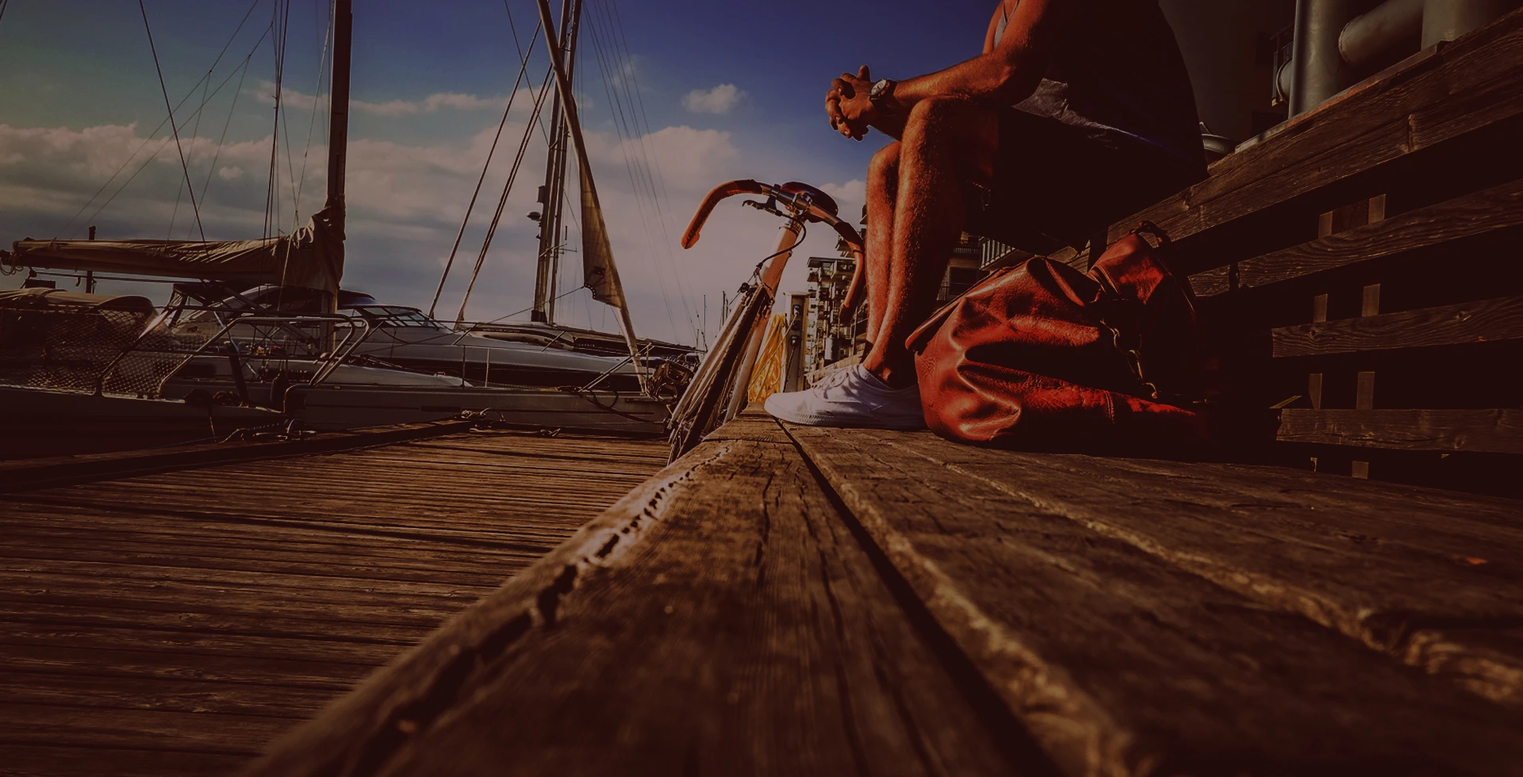
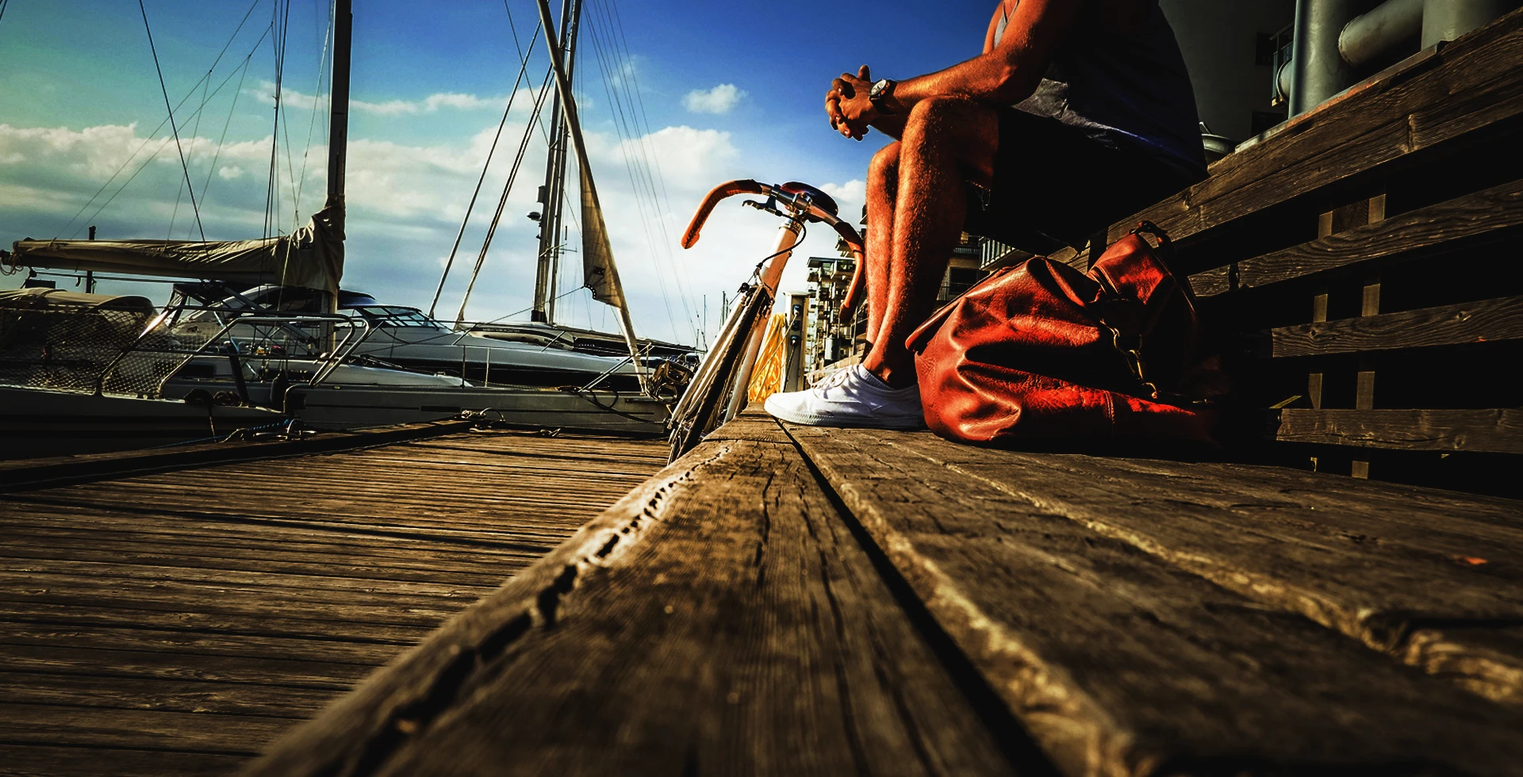
Add files via upload

diff --git a/index.html b/index.html
@@ -13,18 +13,15 @@
 <body>
   <svg xmlns="http://www.w3.org/2000/svg" xmlns:xlink="http://www.w3.org/1999/xlink" class="visually-hidden">
     <symbol id="Basket_icon">
-      <path fill-rule="evenodd"
-        d="M25.445,4.957 C25.835,5.212 26.072,5.668 26.006,6.159 L24.502,15.477 C24.410,16.158 23.781,16.637 23.097,16.545 L22.997,16.531 L7.747,16.531 L8.131,19.062 L21.656,19.062 C22.312,19.062 22.844,19.594 22.844,20.250 L22.844,20.375 C22.844,21.031 22.312,21.562 21.656,21.562 L7.184,21.562 L7.135,21.570 C6.454,21.680 5.813,21.218 5.703,20.539 L3.144,3.682 C3.086,3.324 3.194,2.983 3.402,2.719 L1.315,2.719 C0.589,2.719 -0.000,2.130 -0.000,1.404 L-0.000,1.315 C-0.000,0.588 0.589,-0.000 1.315,-0.000 L4.435,-0.000 C5.161,-0.000 5.750,0.588 5.750,1.315 L5.750,1.404 C5.750,1.835 5.538,2.210 5.217,2.447 C5.285,2.495 5.334,2.564 5.392,2.625 L24.715,2.625 C25.408,2.625 25.969,3.186 25.969,3.878 L25.969,3.965 C25.969,4.379 25.755,4.729 25.445,4.957 ZM21.994,13.781 L22.559,10.281 L17.500,10.281 L17.500,13.781 L21.994,13.781 ZM16.500,13.781 L16.500,10.281 L12.219,10.281 L12.219,13.781 L16.500,13.781 ZM7.329,13.781 L11.219,13.781 L11.219,10.281 L6.798,10.281 L7.329,13.781 ZM6.029,5.219 L6.644,9.268 C6.674,9.262 6.701,9.250 6.732,9.250 L11.219,9.250 L11.219,5.219 L6.029,5.219 ZM12.219,5.219 L12.219,9.250 L16.500,9.250 L16.500,5.219 L12.219,5.219 ZM17.500,5.219 L17.500,9.250 L22.725,9.250 L23.283,5.793 C23.313,5.571 23.414,5.385 23.540,5.219 L17.500,5.219 ZM9.062,23.187 C10.132,23.187 11.000,23.817 11.000,24.594 C11.000,25.370 10.132,26.000 9.062,26.000 C7.992,26.000 7.125,25.370 7.125,24.594 C7.125,23.817 7.992,23.187 9.062,23.187 ZM21.031,23.187 C22.101,23.187 22.969,23.817 22.969,24.594 C22.969,25.370 22.101,26.000 21.031,26.000 C19.961,26.000 19.094,25.370 19.094,24.594 C19.094,23.817 19.961,23.187 21.031,23.187 Z">
+      <path fill-rule="evenodd" d="M25.445,4.957 C25.835,5.212 26.072,5.668 26.006,6.159 L24.502,15.477 C24.410,16.158 23.781,16.637 23.097,16.545 L22.997,16.531 L7.747,16.531 L8.131,19.062 L21.656,19.062 C22.312,19.062 22.844,19.594 22.844,20.250 L22.844,20.375 C22.844,21.031 22.312,21.562 21.656,21.562 L7.184,21.562 L7.135,21.570 C6.454,21.680 5.813,21.218 5.703,20.539 L3.144,3.682 C3.086,3.324 3.194,2.983 3.402,2.719 L1.315,2.719 C0.589,2.719 -0.000,2.130 -0.000,1.404 L-0.000,1.315 C-0.000,0.588 0.589,-0.000 1.315,-0.000 L4.435,-0.000 C5.161,-0.000 5.750,0.588 5.750,1.315 L5.750,1.404 C5.750,1.835 5.538,2.210 5.217,2.447 C5.285,2.495 5.334,2.564 5.392,2.625 L24.715,2.625 C25.408,2.625 25.969,3.186 25.969,3.878 L25.969,3.965 C25.969,4.379 25.755,4.729 25.445,4.957 ZM21.994,13.781 L22.559,10.281 L17.500,10.281 L17.500,13.781 L21.994,13.781 ZM16.500,13.781 L16.500,10.281 L12.219,10.281 L12.219,13.781 L16.500,13.781 ZM7.329,13.781 L11.219,13.781 L11.219,10.281 L6.798,10.281 L7.329,13.781 ZM6.029,5.219 L6.644,9.268 C6.674,9.262 6.701,9.250 6.732,9.250 L11.219,9.250 L11.219,5.219 L6.029,5.219 ZM12.219,5.219 L12.219,9.250 L16.500,9.250 L16.500,5.219 L12.219,5.219 ZM17.500,5.219 L17.500,9.250 L22.725,9.250 L23.283,5.793 C23.313,5.571 23.414,5.385 23.540,5.219 L17.500,5.219 ZM9.062,23.187 C10.132,23.187 11.000,23.817 11.000,24.594 C11.000,25.370 10.132,26.000 9.062,26.000 C7.992,26.000 7.125,25.370 7.125,24.594 C7.125,23.817 7.992,23.187 9.062,23.187 ZM21.031,23.187 C22.101,23.187 22.969,23.817 22.969,24.594 C22.969,25.370 22.101,26.000 21.031,26.000 C19.961,26.000 19.094,25.370 19.094,24.594 C19.094,23.817 19.961,23.187 21.031,23.187 Z">
       </path>
     </symbol>
     <symbol id="buttonLeft" viewbox="0 0 60 60">
-      <path fill-rule="evenodd" stroke-width="2px" stroke-linecap="butt" stroke-linejoin="miter" fill="none"
-        d="M49.000,59.000 L11.000,59.000 C5.477,59.000 1.000,54.523 1.000,49.000 L1.000,11.000 C1.000,5.477 5.477,1.000 11.000,1.000 L49.000,1.000 C54.523,1.000 59.000,5.477 59.000,11.000 L59.000,49.000 C59.000,54.523 54.523,59.000 49.000,59.000 ZM36.981,23.943 C38.298,22.580 38.298,20.372 36.981,19.010 C35.663,17.648 33.528,17.648 32.210,19.010 L23.970,27.530 C22.653,28.892 22.653,31.101 23.970,32.463 L32.210,40.983 C33.528,42.345 35.663,42.345 36.981,40.983 C38.298,39.621 38.298,37.413 36.981,36.050 L31.126,29.996 L36.981,23.943 Z">
+      <path fill-rule="evenodd" stroke-width="2px" stroke-linecap="butt" stroke-linejoin="miter" fill="none" d="M49.000,59.000 L11.000,59.000 C5.477,59.000 1.000,54.523 1.000,49.000 L1.000,11.000 C1.000,5.477 5.477,1.000 11.000,1.000 L49.000,1.000 C54.523,1.000 59.000,5.477 59.000,11.000 L59.000,49.000 C59.000,54.523 54.523,59.000 49.000,59.000 ZM36.981,23.943 C38.298,22.580 38.298,20.372 36.981,19.010 C35.663,17.648 33.528,17.648 32.210,19.010 L23.970,27.530 C22.653,28.892 22.653,31.101 23.970,32.463 L32.210,40.983 C33.528,42.345 35.663,42.345 36.981,40.983 C38.298,39.621 38.298,37.413 36.981,36.050 L31.126,29.996 L36.981,23.943 Z">
       </path>
     </symbol>
     <symbol id="fightButtonLink" viewbox="0 0 60 60">
-      <path fill-rule="evenodd" stroke-width="3px" stroke-linecap="butt" stroke-linejoin="miter" fill="none"
-        d="M49.000,59.000 L11.000,59.000 C5.477,59.000 1.000,54.523 1.000,49.000 L1.000,11.000 C1.000,5.477 5.477,1.000 11.000,1.000 L49.000,1.000 C54.523,1.000 59.000,5.477 59.000,11.000 L59.000,49.000 C59.000,54.523 54.523,59.000 49.000,59.000 ZM36.030,27.530 L27.790,19.010 C26.472,17.648 24.337,17.648 23.019,19.010 C21.702,20.372 21.702,22.580 23.019,23.943 L28.874,29.996 L23.019,36.050 C21.702,37.413 21.702,39.621 23.019,40.983 C24.337,42.345 26.472,42.345 27.790,40.983 L36.030,32.463 C37.347,31.101 37.347,28.892 36.030,27.530 Z">
+      <path fill-rule="evenodd" stroke-width="3px" stroke-linecap="butt" stroke-linejoin="miter" fill="none" d="M49.000,59.000 L11.000,59.000 C5.477,59.000 1.000,54.523 1.000,49.000 L1.000,11.000 C1.000,5.477 5.477,1.000 11.000,1.000 L49.000,1.000 C54.523,1.000 59.000,5.477 59.000,11.000 L59.000,49.000 C59.000,54.523 54.523,59.000 49.000,59.000 ZM36.030,27.530 L27.790,19.010 C26.472,17.648 24.337,17.648 23.019,19.010 C21.702,20.372 21.702,22.580 23.019,23.943 L28.874,29.996 L23.019,36.050 C21.702,37.413 21.702,39.621 23.019,40.983 C24.337,42.345 26.472,42.345 27.790,40.983 L36.030,32.463 C37.347,31.101 37.347,28.892 36.030,27.530 Z">
       </path>
     </symbol>
     <symbol id="iconfinder_ic_close_48px_352270" viewbox="0 0 48 48">
@@ -32,13 +29,11 @@
       <path d="M0 0h48v48h-48z" fill="none"></path>
     </symbol>
     <symbol id="iconfinder_menu-alt_134216" viewbox="0 0 32 32">
-      <path
-        d="M4,10h24c1.104,0,2-0.896,2-2s-0.896-2-2-2H4C2.896,6,2,6.896,2,8S2.896,10,4,10z M28,14H4c-1.104,0-2,0.896-2,2  s0.896,2,2,2h24c1.104,0,2-0.896,2-2S29.104,14,28,14z M28,22H4c-1.104,0-2,0.896-2,2s0.896,2,2,2h24c1.104,0,2-0.896,2-2  S29.104,22,28,22z">
+      <path d="M4,10h24c1.104,0,2-0.896,2-2s-0.896-2-2-2H4C2.896,6,2,6.896,2,8S2.896,10,4,10z M28,14H4c-1.104,0-2,0.896-2,2  s0.896,2,2,2h24c1.104,0,2-0.896,2-2S29.104,14,28,14z M28,22H4c-1.104,0-2,0.896-2,2s0.896,2,2,2h24c1.104,0,2-0.896,2-2  S29.104,22,28,22z">
       </path>
     </symbol>
     <symbol id="logo">
-      <path fill-rule="evenodd" fill="rgb(255, 255, 255)"
-        d="M150.000,32.000 L10.000,32.000 C4.477,32.000 -0.000,27.523 -0.000,22.000 L-0.000,10.000 C-0.000,4.477 4.477,-0.000 10.000,-0.000 L150.000,-0.000 C155.523,-0.000 160.000,4.477 160.000,10.000 L160.000,22.000 C160.000,27.523 155.523,32.000 150.000,32.000 ZM15.016,8.800 L8.296,8.800 L8.296,9.771 L11.070,9.771 L11.070,24.370 L12.197,24.370 L12.197,9.771 L15.016,9.771 L15.016,8.800 ZM27.330,8.800 L26.225,8.800 L26.225,15.725 L22.120,15.725 L22.120,8.800 L21.038,8.800 L21.038,24.370 L22.120,24.370 L22.120,16.673 L26.225,16.673 L26.225,24.370 L27.330,24.370 L27.330,8.800 ZM40.117,8.800 L34.479,8.800 L34.479,24.370 L40.094,24.370 L40.094,23.400 L35.562,23.400 L35.562,16.717 L39.305,16.717 L39.305,15.769 L35.562,15.769 L35.562,9.771 L40.117,9.771 L40.117,8.800 ZM56.896,18.813 C56.896,17.997 56.873,17.115 56.152,16.519 C55.565,16.034 54.686,15.946 54.460,15.924 C54.799,15.857 55.859,15.725 56.219,14.622 C56.355,14.225 56.332,13.674 56.332,13.564 L56.332,11.248 C56.332,10.631 56.242,9.969 55.791,9.462 C55.114,8.712 53.987,8.800 53.739,8.800 L50.717,8.800 L50.717,24.370 L53.897,24.370 C54.212,24.370 55.272,24.414 56.107,23.708 C56.806,23.091 56.896,22.319 56.896,21.481 L56.896,18.813 ZM64.812,8.800 L63.662,8.800 L63.662,24.370 L64.812,24.370 L64.812,8.800 ZM78.253,8.800 L77.013,8.800 L73.044,16.431 L73.044,8.800 L71.939,8.800 L71.939,24.370 L73.021,24.370 L73.021,18.460 L74.194,16.298 L77.103,24.370 L78.298,24.370 L74.870,14.997 L78.253,8.800 ZM90.093,8.800 L84.455,8.800 L84.455,24.370 L90.070,24.370 L90.070,23.400 L85.538,23.400 L85.538,16.717 L89.281,16.717 L89.281,15.769 L85.538,15.769 L85.538,9.771 L90.093,9.771 L90.093,8.800 ZM107.098,9.771 C107.549,9.506 108.067,9.506 108.225,9.506 C109.601,9.506 109.939,10.344 110.029,10.873 C110.097,11.182 110.097,11.358 110.097,11.910 L110.097,13.299 L111.179,13.299 L111.179,12.175 C111.179,11.050 111.179,9.727 110.074,9.021 C109.353,8.580 108.451,8.580 108.203,8.580 C105.970,8.580 105.451,9.969 105.294,10.851 C105.203,11.292 105.203,11.932 105.203,12.020 C105.203,13.520 105.722,14.402 106.105,14.909 C106.444,15.372 107.007,15.990 107.932,16.872 C108.090,17.004 109.150,17.997 109.736,18.879 C110.029,19.342 110.300,19.893 110.300,21.106 C110.300,22.385 109.984,23.047 109.420,23.378 C108.947,23.664 108.451,23.664 108.270,23.664 C106.218,23.664 105.970,22.253 105.925,21.503 C105.902,21.172 105.925,20.864 105.925,20.533 L105.925,19.276 L104.820,19.276 L104.820,21.481 C104.820,21.944 104.843,22.297 105.000,22.738 C105.181,23.201 105.429,23.554 105.790,23.863 C106.015,24.061 106.196,24.172 106.308,24.238 C106.805,24.502 107.526,24.613 108.135,24.613 C109.668,24.613 110.458,24.017 110.841,23.466 C111.157,23.003 111.405,22.231 111.405,20.930 C111.405,19.695 111.179,18.835 110.390,17.864 C109.894,17.247 109.330,16.717 108.766,16.166 C108.383,15.769 108.022,15.394 107.684,14.997 C106.714,13.917 106.308,13.321 106.308,11.844 C106.308,10.697 106.602,10.079 107.098,9.771 ZM124.463,8.800 L123.358,8.800 L123.358,15.725 L119.254,15.725 L119.254,8.800 L118.171,8.800 L118.171,24.370 L119.254,24.370 L119.254,16.673 L123.358,16.673 L123.358,24.370 L124.463,24.370 L124.463,8.800 ZM137.949,12.594 C137.949,11.381 137.949,10.035 136.822,9.197 C136.235,8.778 135.514,8.624 134.792,8.624 C133.439,8.602 132.199,9.197 131.748,10.498 C131.500,11.204 131.500,12.086 131.500,12.263 L131.500,21.040 C131.500,21.966 131.567,22.848 132.199,23.620 C132.988,24.547 134.364,24.569 134.679,24.569 C136.303,24.569 137.137,23.797 137.476,23.223 C137.882,22.584 137.949,21.922 137.949,21.194 L137.949,12.594 ZM151.233,12.263 C151.233,11.116 151.233,10.102 150.376,9.418 C149.564,8.756 148.481,8.800 147.512,8.800 L145.031,8.800 L145.031,24.370 L146.136,24.370 L146.136,17.269 L147.760,17.269 C148.459,17.269 149.789,17.225 150.601,16.276 C151.210,15.571 151.233,14.865 151.233,14.027 L151.233,12.263 ZM147.918,16.365 L146.114,16.365 L146.114,9.704 L147.805,9.704 C148.729,9.704 149.090,9.771 149.496,10.079 C150.128,10.543 150.150,11.292 150.150,12.682 L150.150,14.027 C150.150,14.159 150.240,15.218 149.632,15.813 C149.158,16.298 148.526,16.365 147.918,16.365 ZM134.747,23.598 C133.484,23.598 132.920,22.804 132.762,22.385 C132.627,21.988 132.582,21.503 132.582,20.621 L132.582,12.042 C132.582,11.777 132.537,10.543 133.507,9.925 C133.687,9.815 134.093,9.594 134.724,9.594 C135.243,9.594 135.626,9.749 135.784,9.837 C136.235,10.057 136.416,10.388 136.506,10.565 C136.822,11.160 136.889,11.888 136.889,13.189 L136.889,20.775 C136.889,21.679 136.844,22.628 135.987,23.223 C135.626,23.488 135.198,23.598 134.747,23.598 ZM53.716,23.422 L51.844,23.422 L51.844,16.453 L52.972,16.453 C54.032,16.453 55.227,16.585 55.656,17.732 C55.768,18.063 55.791,18.416 55.791,18.790 L55.791,20.996 C55.791,22.143 55.701,22.672 55.182,23.069 C54.866,23.289 54.505,23.422 53.716,23.422 ZM52.904,15.505 L51.822,15.505 L51.822,9.727 L53.220,9.727 C53.919,9.727 54.844,9.749 55.137,10.543 C55.204,10.719 55.250,11.006 55.250,11.447 L55.250,13.321 C55.250,13.696 55.340,14.975 53.987,15.372 C53.671,15.460 53.513,15.505 52.904,15.505 Z">
+      <path fill-rule="evenodd" fill="rgb(255, 255, 255)" d="M150.000,32.000 L10.000,32.000 C4.477,32.000 -0.000,27.523 -0.000,22.000 L-0.000,10.000 C-0.000,4.477 4.477,-0.000 10.000,-0.000 L150.000,-0.000 C155.523,-0.000 160.000,4.477 160.000,10.000 L160.000,22.000 C160.000,27.523 155.523,32.000 150.000,32.000 ZM15.016,8.800 L8.296,8.800 L8.296,9.771 L11.070,9.771 L11.070,24.370 L12.197,24.370 L12.197,9.771 L15.016,9.771 L15.016,8.800 ZM27.330,8.800 L26.225,8.800 L26.225,15.725 L22.120,15.725 L22.120,8.800 L21.038,8.800 L21.038,24.370 L22.120,24.370 L22.120,16.673 L26.225,16.673 L26.225,24.370 L27.330,24.370 L27.330,8.800 ZM40.117,8.800 L34.479,8.800 L34.479,24.370 L40.094,24.370 L40.094,23.400 L35.562,23.400 L35.562,16.717 L39.305,16.717 L39.305,15.769 L35.562,15.769 L35.562,9.771 L40.117,9.771 L40.117,8.800 ZM56.896,18.813 C56.896,17.997 56.873,17.115 56.152,16.519 C55.565,16.034 54.686,15.946 54.460,15.924 C54.799,15.857 55.859,15.725 56.219,14.622 C56.355,14.225 56.332,13.674 56.332,13.564 L56.332,11.248 C56.332,10.631 56.242,9.969 55.791,9.462 C55.114,8.712 53.987,8.800 53.739,8.800 L50.717,8.800 L50.717,24.370 L53.897,24.370 C54.212,24.370 55.272,24.414 56.107,23.708 C56.806,23.091 56.896,22.319 56.896,21.481 L56.896,18.813 ZM64.812,8.800 L63.662,8.800 L63.662,24.370 L64.812,24.370 L64.812,8.800 ZM78.253,8.800 L77.013,8.800 L73.044,16.431 L73.044,8.800 L71.939,8.800 L71.939,24.370 L73.021,24.370 L73.021,18.460 L74.194,16.298 L77.103,24.370 L78.298,24.370 L74.870,14.997 L78.253,8.800 ZM90.093,8.800 L84.455,8.800 L84.455,24.370 L90.070,24.370 L90.070,23.400 L85.538,23.400 L85.538,16.717 L89.281,16.717 L89.281,15.769 L85.538,15.769 L85.538,9.771 L90.093,9.771 L90.093,8.800 ZM107.098,9.771 C107.549,9.506 108.067,9.506 108.225,9.506 C109.601,9.506 109.939,10.344 110.029,10.873 C110.097,11.182 110.097,11.358 110.097,11.910 L110.097,13.299 L111.179,13.299 L111.179,12.175 C111.179,11.050 111.179,9.727 110.074,9.021 C109.353,8.580 108.451,8.580 108.203,8.580 C105.970,8.580 105.451,9.969 105.294,10.851 C105.203,11.292 105.203,11.932 105.203,12.020 C105.203,13.520 105.722,14.402 106.105,14.909 C106.444,15.372 107.007,15.990 107.932,16.872 C108.090,17.004 109.150,17.997 109.736,18.879 C110.029,19.342 110.300,19.893 110.300,21.106 C110.300,22.385 109.984,23.047 109.420,23.378 C108.947,23.664 108.451,23.664 108.270,23.664 C106.218,23.664 105.970,22.253 105.925,21.503 C105.902,21.172 105.925,20.864 105.925,20.533 L105.925,19.276 L104.820,19.276 L104.820,21.481 C104.820,21.944 104.843,22.297 105.000,22.738 C105.181,23.201 105.429,23.554 105.790,23.863 C106.015,24.061 106.196,24.172 106.308,24.238 C106.805,24.502 107.526,24.613 108.135,24.613 C109.668,24.613 110.458,24.017 110.841,23.466 C111.157,23.003 111.405,22.231 111.405,20.930 C111.405,19.695 111.179,18.835 110.390,17.864 C109.894,17.247 109.330,16.717 108.766,16.166 C108.383,15.769 108.022,15.394 107.684,14.997 C106.714,13.917 106.308,13.321 106.308,11.844 C106.308,10.697 106.602,10.079 107.098,9.771 ZM124.463,8.800 L123.358,8.800 L123.358,15.725 L119.254,15.725 L119.254,8.800 L118.171,8.800 L118.171,24.370 L119.254,24.370 L119.254,16.673 L123.358,16.673 L123.358,24.370 L124.463,24.370 L124.463,8.800 ZM137.949,12.594 C137.949,11.381 137.949,10.035 136.822,9.197 C136.235,8.778 135.514,8.624 134.792,8.624 C133.439,8.602 132.199,9.197 131.748,10.498 C131.500,11.204 131.500,12.086 131.500,12.263 L131.500,21.040 C131.500,21.966 131.567,22.848 132.199,23.620 C132.988,24.547 134.364,24.569 134.679,24.569 C136.303,24.569 137.137,23.797 137.476,23.223 C137.882,22.584 137.949,21.922 137.949,21.194 L137.949,12.594 ZM151.233,12.263 C151.233,11.116 151.233,10.102 150.376,9.418 C149.564,8.756 148.481,8.800 147.512,8.800 L145.031,8.800 L145.031,24.370 L146.136,24.370 L146.136,17.269 L147.760,17.269 C148.459,17.269 149.789,17.225 150.601,16.276 C151.210,15.571 151.233,14.865 151.233,14.027 L151.233,12.263 ZM147.918,16.365 L146.114,16.365 L146.114,9.704 L147.805,9.704 C148.729,9.704 149.090,9.771 149.496,10.079 C150.128,10.543 150.150,11.292 150.150,12.682 L150.150,14.027 C150.150,14.159 150.240,15.218 149.632,15.813 C149.158,16.298 148.526,16.365 147.918,16.365 ZM134.747,23.598 C133.484,23.598 132.920,22.804 132.762,22.385 C132.627,21.988 132.582,21.503 132.582,20.621 L132.582,12.042 C132.582,11.777 132.537,10.543 133.507,9.925 C133.687,9.815 134.093,9.594 134.724,9.594 C135.243,9.594 135.626,9.749 135.784,9.837 C136.235,10.057 136.416,10.388 136.506,10.565 C136.822,11.160 136.889,11.888 136.889,13.189 L136.889,20.775 C136.889,21.679 136.844,22.628 135.987,23.223 C135.626,23.488 135.198,23.598 134.747,23.598 ZM53.716,23.422 L51.844,23.422 L51.844,16.453 L52.972,16.453 C54.032,16.453 55.227,16.585 55.656,17.732 C55.768,18.063 55.791,18.416 55.791,18.790 L55.791,20.996 C55.791,22.143 55.701,22.672 55.182,23.069 C54.866,23.289 54.505,23.422 53.716,23.422 ZM52.904,15.505 L51.822,15.505 L51.822,9.727 L53.220,9.727 C53.919,9.727 54.844,9.749 55.137,10.543 C55.204,10.719 55.250,11.006 55.250,11.447 L55.250,13.321 C55.250,13.696 55.340,14.975 53.987,15.372 C53.671,15.460 53.513,15.505 52.904,15.505 Z">
       </path>
     </symbol>
   </svg>

diff --git a/css/style.min.css b/css/style.min.css
@@ -1,2 +1,2 @@
-.header{width:100%;height:500px;padding-top:27px;padding-left:20px;padding-right:20px;-webkit-box-sizing:border-box;box-sizing:border-box;background-image:url(../img/PhotoFilter.jpg);background-size:cover;background-position:center}.header__menu{display:-webkit-box;display:-ms-flexbox;display:flex;-webkit-box-pack:justify;-ms-flex-pack:justify;justify-content:space-between;-ms-flex-wrap:wrap;flex-wrap:wrap;height:37px}.header__logo-img{width:164px;height:34px}.header__logo{-webkit-box-ordinal-group:2;-ms-flex-order:1;order:1;-ms-flex-preferred-size:50%;flex-basis:50%}.header__button-container{-ms-flex-preferred-size:100%;flex-basis:100%;text-align:right;-webkit-box-ordinal-group:4;-ms-flex-order:3;order:3}.header__navigation-list{list-style:none;margin:0;padding:0;display:-webkit-box;display:-ms-flexbox;display:flex;-webkit-box-orient:vertical;-webkit-box-direction:normal;-ms-flex-direction:column;flex-direction:column;-webkit-box-align:end;-ms-flex-align:end;align-items:flex-end;position:relative;top:5px;right:22px}.header__navigation-list--opened{visibility:visible;z-index:10}.header__navigation-list:last-child li{margin-top:10px}.header__navigation-list--closed{visibility:hidden}.header__navigation-item{position:relative}.header__navigation-item:active .header__navigation-sublist,.header__navigation-item:focus .header__navigation-sublist,.header__navigation-item:hover .header__navigation-sublist{display:block}.header__button{-webkit-box-ordinal-group:3;-ms-flex-order:2;order:2;height:40px;background-color:transparent;border:0;cursor:pointer}.header__button:focus{background-color:#fcff19;border-radius:10px;-webkit-transition:background .5s;transition:background .5s}.header__button:focus svg{fill:#000}.header__button:hover{background-color:#fcff19;border-radius:10px;-webkit-transition:background .5s;transition:background .5s}.header__button:hover .header__button-svg,.header__navigation-link--icon:hover svg,.header__navigation-sublink--icon:hover svg{fill:#000}.header__button-svg__cross{fill:#fff;width:30px;height:40px}.header__button-svg__cross--closed{display:block}.header__button-svg__cross--opened{display:none}.header__button-svg{width:30px;height:40px;fill:#fff}.header__button-svg--opened{display:none}.header__button-svg--closed{display:block}.header__navigation-link{-webkit-box-sizing:border-box;box-sizing:border-box;height:34px}.header__navigation-link--opened{visibility:visible}.header__navigation-link--icon{height:44px;display:-webkit-box;display:-ms-flexbox;display:flex;-webkit-box-pack:center;-ms-flex-pack:center;justify-content:center}.header__navigation-sublist{display:none;position:absolute;z-index:1;left:-149px;top:5px;border:1px solid #000;margin:0;padding:0;background-color:#fcff19;list-style:none;border-radius:10px}.header__navigation-link,.header__navigation-sublink{display:block;padding:10px;font-size:12px;font-weight:700;text-decoration:none}.header__navigation-link{width:100px;text-align:center;color:#fff}.header__navigation-link:hover{border:1px solid #000;-webkit-box-shadow:2px 3px 0 0 #fcff19;box-shadow:2px 3px 0 0 #fcff19}.header__navigation-sublink{color:#000}.header__navigation-link--icon svg,.header__navigation-sublink--icon svg{fill:#fff;width:33px;height:27px}.header__navigation-link:hover,.header__navigation-sublink:hover{background-color:#fcff19;border-radius:10px;color:#000}@media (min-width:1100px){.header{padding-top:0}.header__logo{margin-top:27px}.header__button{display:none}.header__navigation-list{visibility:visible;-webkit-box-orient:horizontal;-webkit-box-direction:normal;-ms-flex-direction:row;flex-direction:row}.header__button-container,.header__logo{-ms-flex-preferred-size:auto;flex-basis:auto}.header__navigation-item{margin-top:0}.header__navigation-item:last-child li{margin-top:0}.header__navigation-link,.header__navigation-link:hover{border-bottom-left-radius:0;border-bottom-right-radius:0}.header__navigation-link--icon{border-bottom-left-radius:20px;border-bottom-right-radius:20px}.header__navigation-link:hover{border:0;-webkit-box-shadow:none;box-shadow:none}.header__navigation-sublist{border-top-left-radius:0;top:auto;border:0;left:0;width:220px;text-align:left;padding:14px}}body{margin:0;padding:0;font-family:'Roboto',sans-serif}.visually-hidden,.visually_hidden:not(:focus):not(:active),input[type=checkbox].visually-hidden,input[type=radio].visually-hidden{position:absolute;width:1px;height:1px;margin:-1px;border:0;padding:0;white-space:nowrap;-webkit-clip-path:inset(100%);clip-path:inset(100%);clip:rect(0 0 0 0);overflow:hidden}@media (min-width:1100px){.container{width:1100px;margin:0 auto}}.main{width:100%;height:500px}.slaider{position:relative;height:100%;overflow:hidden}.slaider__list{list-style:none;margin:0;padding:0;-webkit-transition:-webkit-transform 1s;transition:transform 1s;transition:transform 1s,-webkit-transform 1s;position:relative;color:#fff}.slaider__item{position:absolute;left:0;right:0;text-align:center}.slaider__item:first-child{-webkit-transform:translateX(-100%);transform:translateX(-100%)}.slaider__item:last-child{-webkit-transform:translateX(100%);transform:translateX(100%)}.slaider__name{font-size:17px;margin-top:240px;margin-bottom:0}.slaider__link{padding:16px 29px;background-color:#000;border-radius:10px;font-size:9px;color:#fcff19;text-decoration:none}.slaider__description{font-size:13px;font-weight:100;margin:0 auto 30px}.slaider__name-yellow{color:#fcff19}.slaider__button{position:absolute;bottom:182px;width:39px;height:60px;padding-left:0;padding-right:0;background-color:transparent;border:0}.slaider__button--right{right:0}.slaider__button-image{stroke:#fff;width:30px;height:30px}.slaider__button:active .slaider__button-image{stroke:rgba(255,255,255,.5)}@media (min-width:700px){.slaider__name{font-size:47px}.slaider__description{font-size:20px}}
+.header{position:relative;width:100%;height:500px;padding-top:27px;padding-left:20px;padding-right:20px;-webkit-box-sizing:border-box;box-sizing:border-box;background-image:url(../img/PhotoFilter.jpg);background-size:cover;background-position:center}.header::before{position:absolute;content:"";width:92%;height:91%;top:72px;left:0;background-color:#360808;opacity:.4}.header__menu{display:-webkit-box;display:-ms-flexbox;display:flex;-webkit-box-pack:justify;-ms-flex-pack:justify;justify-content:space-between;-ms-flex-wrap:wrap;flex-wrap:wrap;height:37px}.header__logo-img{width:164px;height:34px}.header__logo{-webkit-box-ordinal-group:2;-ms-flex-order:1;order:1;-ms-flex-preferred-size:50%;flex-basis:50%}.header__button-container{-ms-flex-preferred-size:100%;flex-basis:100%;text-align:right;-webkit-box-ordinal-group:4;-ms-flex-order:3;order:3}.header__navigation-list{list-style:none;margin:0;padding:0;display:-webkit-box;display:-ms-flexbox;display:flex;-webkit-box-orient:vertical;-webkit-box-direction:normal;-ms-flex-direction:column;flex-direction:column;-webkit-box-align:end;-ms-flex-align:end;align-items:flex-end;position:relative;top:5px;right:22px}.header__navigation-list--opened{visibility:visible;z-index:10}.header__navigation-list:last-child li{margin-top:10px}.header__navigation-list--closed{visibility:hidden}.header__navigation-item{position:relative}.header__navigation-item:active .header__navigation-sublist,.header__navigation-item:focus .header__navigation-sublist,.header__navigation-item:hover .header__navigation-sublist{display:block}.header__button{-webkit-box-ordinal-group:3;-ms-flex-order:2;order:2;height:40px;background-color:transparent;border:0;cursor:pointer}.header__button:focus{background-color:#fcff19;border-radius:10px;-webkit-transition:background .5s;transition:background .5s}.header__button:focus svg{fill:#000}.header__button:hover{background-color:#fcff19;border-radius:10px;-webkit-transition:background .5s;transition:background .5s}.header__button:hover .header__button-svg,.header__navigation-link--icon:hover svg,.header__navigation-sublink--icon:hover svg{fill:#000}.header__button-svg__cross{fill:#fff;width:30px;height:40px}.header__button-svg__cross--closed{display:block}.header__button-svg__cross--opened{display:none}.header__button-svg{width:30px;height:40px;fill:#fff}.header__button-svg--opened{display:none}.header__button-svg--closed{display:block}.header__navigation-link{-webkit-box-sizing:border-box;box-sizing:border-box;height:34px}.header__navigation-link--opened{visibility:visible}.header__navigation-link--icon{height:44px;display:-webkit-box;display:-ms-flexbox;display:flex;-webkit-box-pack:center;-ms-flex-pack:center;justify-content:center}.header__navigation-sublist{display:none;position:absolute;z-index:1;left:-149px;top:5px;border:1px solid #000;margin:0;padding:0;background-color:#fcff19;list-style:none;border-radius:10px}.header__navigation-link,.header__navigation-sublink{display:block;padding:10px;font-size:12px;font-weight:700;text-decoration:none}.header__navigation-link{width:100px;text-align:center;color:#fff}.header__navigation-link:hover{border:1px solid #000;-webkit-box-shadow:2px 3px 0 0 #fcff19;box-shadow:2px 3px 0 0 #fcff19}.header__navigation-sublink{color:#000}.header__navigation-link--icon svg,.header__navigation-sublink--icon svg{fill:#fff;width:33px;height:27px}.header__navigation-link:hover,.header__navigation-sublink:hover{background-color:#fcff19;border-radius:10px;color:#000}@media (min-width:1100px){.header{padding-top:0}.header__logo{margin-top:27px}.header__button{display:none}.header__navigation-list{visibility:visible;-webkit-box-orient:horizontal;-webkit-box-direction:normal;-ms-flex-direction:row;flex-direction:row}.header__button-container,.header__logo{-ms-flex-preferred-size:auto;flex-basis:auto}.header__navigation-item{margin-top:0}.header__navigation-item:last-child li{margin-top:0}.header__navigation-link,.header__navigation-link:hover{border-bottom-left-radius:0;border-bottom-right-radius:0}.header__navigation-link--icon{border-bottom-left-radius:20px;border-bottom-right-radius:20px}.header__navigation-link:hover{border:0;-webkit-box-shadow:none;box-shadow:none}.header__navigation-sublist{border-top-left-radius:0;top:auto;border:0;left:0;width:220px;text-align:left;padding:14px}}body{margin:0;padding:0;font-family:'Roboto',sans-serif}.visually-hidden,.visually_hidden:not(:focus):not(:active),input[type=checkbox].visually-hidden,input[type=radio].visually-hidden{position:absolute;width:1px;height:1px;margin:-1px;border:0;padding:0;white-space:nowrap;-webkit-clip-path:inset(100%);clip-path:inset(100%);clip:rect(0 0 0 0);overflow:hidden}@media (min-width:1100px){.container{width:1100px;margin:0 auto}}.slaider{position:relative;height:100%;overflow:hidden}.slaider__list{list-style:none;margin:0;padding:0;-webkit-transition:-webkit-transform 1s;transition:transform 1s;transition:transform 1s,-webkit-transform 1s;position:relative;color:#fff}.slaider__item{position:absolute;left:0;right:0;text-align:center}.slaider__item:first-child{-webkit-transform:translateX(-100%);transform:translateX(-100%)}.slaider__item:last-child{-webkit-transform:translateX(100%);transform:translateX(100%)}.slaider__name{font-size:17px;margin-top:240px;margin-bottom:0}.slaider__link{padding:16px 29px;background-color:#000;border-radius:10px;font-size:9px;color:#fcff19;text-decoration:none}.slaider__description{font-size:13px;font-weight:100;margin:0 auto 30px}.slaider__name-yellow{color:#fcff19}.slaider__button{position:absolute;bottom:182px;width:39px;height:60px;padding-left:0;padding-right:0;background-color:transparent;border:0}.slaider__button--right{right:0}.slaider__button-image{stroke:#fff;width:30px;height:30px}.slaider__button:active .slaider__button-image{stroke:rgba(255,255,255,.5)}@media (min-width:700px){.slaider__name{font-size:47px}.slaider__description{font-size:20px}}main{font-family:'Roboto'}.categories{width:100%;height:100%;padding-top:18px;background-image:url(../img/CATEGORIES_BG_IMAGE.jpg);background-position:center;background-repeat:no-repeat;background-size:cover;text-align:center}.categories__list{list-style:none;margin:0;padding:0;display:-webkit-box;display:-ms-flexbox;display:flex;-webkit-box-orient:vertical;-webkit-box-direction:normal;-ms-flex-direction:column;flex-direction:column;-webkit-box-align:center;-ms-flex-align:center;align-items:center}.categories__title{margin-top:0}.categories__name{font-size:12px;color:#fcff19;margin:0 0 10px}.categories__description{font-style:10px;color:#fff;margin:0 0 25px;z-index:1}.categories__item{position:relative;display:-webkit-box;display:-ms-flexbox;display:flex;-webkit-box-orient:vertical;-webkit-box-direction:normal;-ms-flex-direction:column;flex-direction:column;-webkit-box-align:center;-ms-flex-align:center;align-items:center;-webkit-box-pack:end;-ms-flex-pack:end;justify-content:flex-end;height:288px;width:345px;margin-bottom:10px;text-align:center;background-image:url(../img/CATEGORIES_PHOTO_02.png);background-size:cover;background-position:center}.categories__item:first-child{background-image:url(../img/CATEGORIES_PHOTO_01.png)}.categories__item:last-child{background-image:url(../img/CATEGORIES_PHOTO_03.png)}.categories__item::after{position:absolute;content:'';left:0;bottom:0;border:143px solid transparent;border-bottom:143px solid #fcff19;border-left:143px solid #fcff19;opacity:.4}.categories__link{text-decoration:none;color:#fff;border:3px solid #fff;padding:12px 25px;border-radius:10px;margin-bottom:35px;z-index:1}
 /*# sourceMappingURL=style.min.css.map */
